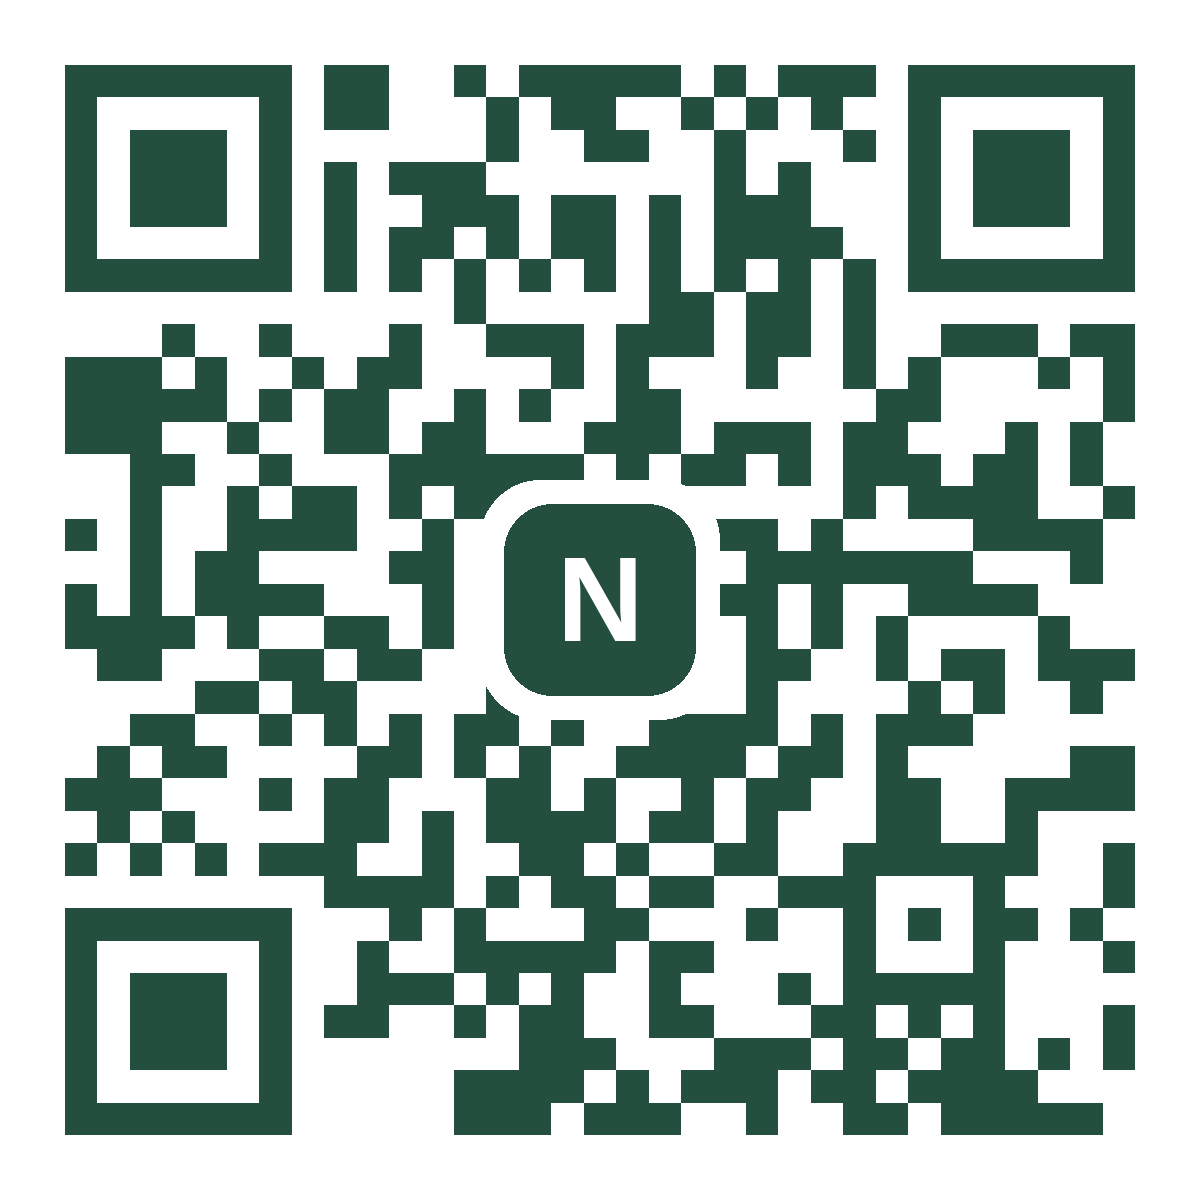
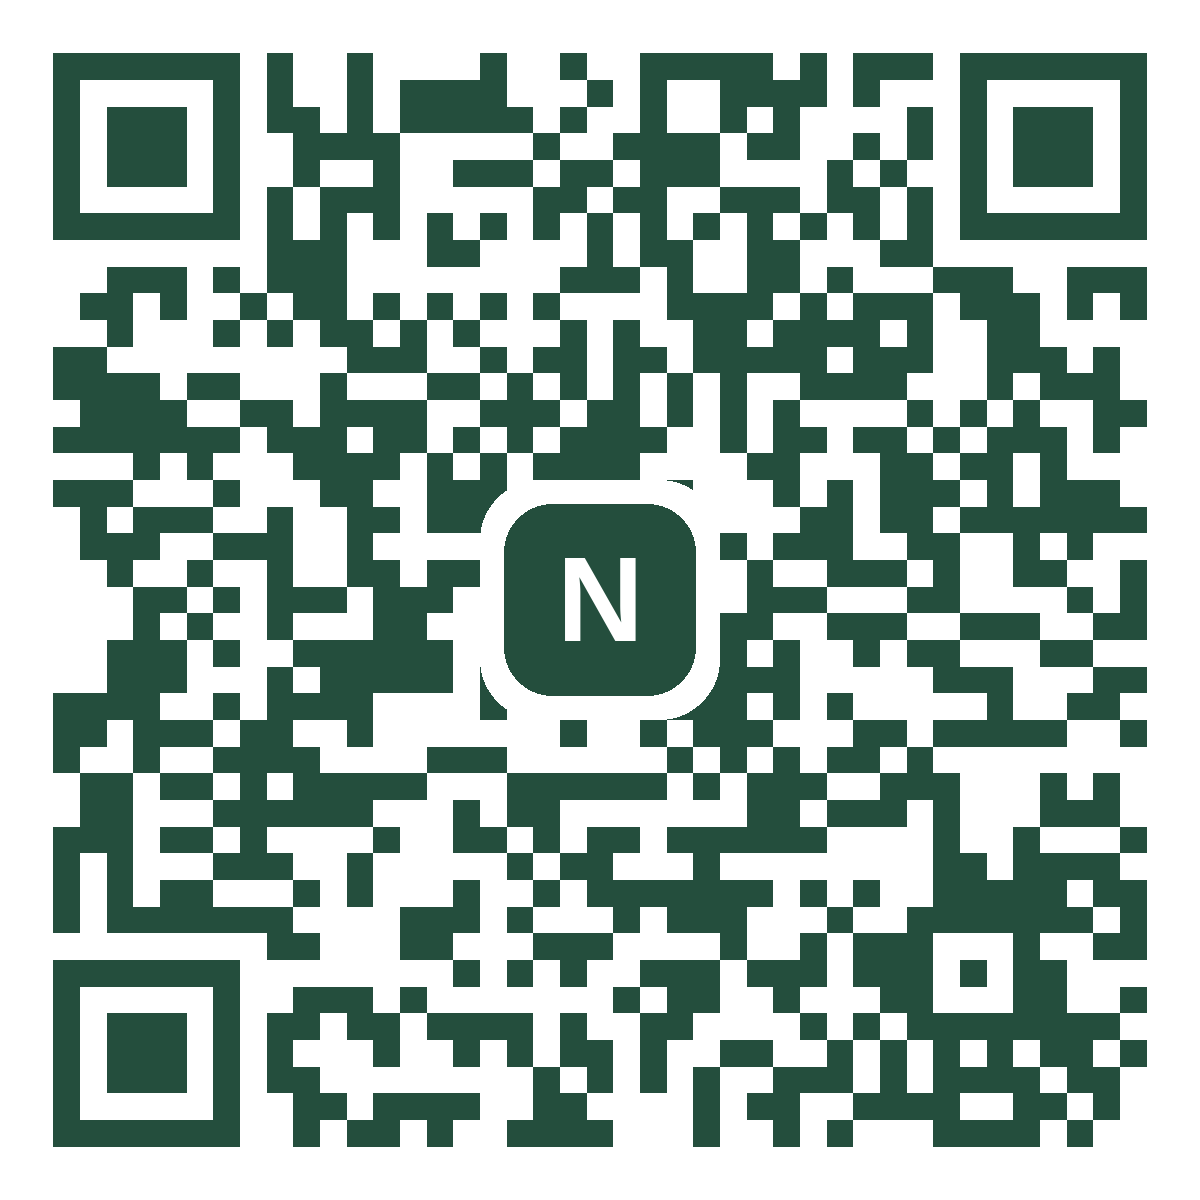
ci: deploy frontend to Azure Static Web Apps and backend to App Service
- SWA workflow: build from frontend/ as hybrid Next.js (was repo root),
  NEXT_PUBLIC_* at build time, path filters, manual dispatch
- Next.js standalone output (+ copy of static/public) to stay under the SWA
  hybrid size limit; Node 22 pinned via engines; proxy skips /.swa health path
- Backend workflow: pytest, package app + requirements, deploy with publish
  profile, then poll /api/health; gunicorn added for the App Service startup command
- Docs rewritten for Azure (secrets, app settings, startup command, CORS
  incl. PR previews, Supabase/Google URLs, troubleshooting); render.yaml removed
- QR codes and posters regenerated for the Azure URL

diff --git a/frontend/src/proxy.ts b/frontend/src/proxy.ts
@@ -14,7 +14,8 @@ export const config = {
      * - favicon.ico, sitemap.xml, robots.txt (metadata files)
      * - icons/ and screenshots/ (PWA assets)
      * - api/ routes (handled separately)
+     * - .swa/ (Azure Static Web Apps health check)
      */
-    "/((?!_next/static|_next/image|favicon.ico|sitemap.xml|robots.txt|icons/|screenshots/|manifest.json|sw.js|offline.html).*)",
+    "/((?!\\.swa|_next/static|_next/image|favicon.ico|sitemap.xml|robots.txt|icons/|screenshots/|manifest.json|sw.js|offline.html).*)",
   ],
 };

diff --git a/frontend/next.config.ts b/frontend/next.config.ts
@@ -1,6 +1,9 @@
 import type { NextConfig } from "next";
 
 const nextConfig: NextConfig = {
+  // Self-contained server bundle: keeps the Azure Static Web Apps hybrid
+  // deployment under its 250 MB limit
+  output: "standalone",
   async headers() {
     return [
       {

diff --git a/scripts/generate_qr.py b/scripts/generate_qr.py
@@ -2,14 +2,14 @@
 
 Usage (from the repo root):
     pip install -r scripts/requirements.txt
-    python scripts/generate_qr.py --url https://nutrimess.vercel.app
+    python scripts/generate_qr.py --url https://kind-coast-021723100.1.azurestaticapps.net
 
 Writes to qr/:
     nutrimess-qr.png / .svg       app QR (opens the app; login or dashboard)
     nutrimess-poster.png          general A5 poster
     posters/nutrimess-<CODE>.png  one poster per bhawan, linking to
                                   /register?bhawan=<CODE> so it's preselected
-Rerun with your real URL if the Vercel deployment name differs.
+Rerun with --url if the app moves (e.g. to a custom domain).
 """
 
 import argparse
@@ -110,7 +110,7 @@ def poster(url: str, subtitle: str, out: Path) -> None:
 
 def main() -> None:
     parser = argparse.ArgumentParser(description=__doc__, formatter_class=argparse.RawDescriptionHelpFormatter)
-    parser.add_argument("--url", default="https://nutrimess.vercel.app", help="Deployed app URL")
+    parser.add_argument("--url", default="https://kind-coast-021723100.1.azurestaticapps.net", help="Deployed app URL")
     parser.add_argument("--out", default="qr", help="Output directory")
     args = parser.parse_args()
 

diff --git a/backend/app/config.py b/backend/app/config.py
@@ -14,8 +14,8 @@ class Settings(BaseSettings):
     gemini_api_key: str = ""
     gemini_model: str = "gemini-2.5-flash"
 
-    # CORS: comma-separated origins, plus an optional regex for Vercel
-    # preview deployments (e.g. https://nutrimess-.*\.vercel\.app)
+    # CORS: comma-separated origins, plus an optional regex for preview
+    # deployments (Azure Static Web Apps PR environments)
     cors_origins: str = "http://localhost:3000"
     cors_origin_regex: str | None = None
 

diff --git a/docs/deployment.md b/docs/deployment.md
@@ -1,94 +1,143 @@
-# Deployment
+# Deployment (Azure)
 
-Target: frontend on **Vercel** (`https://nutrimess.vercel.app`), backend on
-**Render** (free tier, Singapore), database on **Supabase**. Total cost: free.
+| Part | Service | URL |
+|------|---------|-----|
+| Frontend | Azure Static Web Apps "NutriMess" (hybrid Next.js) | https://kind-coast-021723100.1.azurestaticapps.net |
+| Backend | Azure App Service "NutriMess-backend" (Linux, Python) | https://nutrimess-backend-fbb3fwemg4evckah.eastasia-01.azurewebsites.net |
+| Database/Auth | Supabase project `zvepctjxrvdtoyatpzqh` | |
 
-Deploy in this order: backend → frontend → Supabase auth URLs → QR codes.
+## How deploys work
 
-## 1. Backend on Render
+Pushing to `main` triggers GitHub Actions; each workflow only runs when its
+part of the repo changed:
 
-1. Render dashboard → **New → Blueprint** → select the GitHub repo. Render
-   reads `render.yaml` and creates `nutrimess-api` (Docker, `backend/`).
-2. Enter the secret env vars when prompted:
-   - `SUPABASE_ANON_KEY`: Supabase → Project Settings → API → anon key
-   - `GEMINI_API_KEY`
-3. Wait for the deploy, then open `https://<service>.onrender.com/api/health`.
-   It should return `{"status":"healthy",...}`.
+| Workflow | Runs when | Does |
+|----------|-----------|------|
+| `ci.yml` | every push / PR | lint, type-check, unit tests, build; backend pytest |
+| `azure-static-web-apps-kind-coast-021723100.yml` | `frontend/**` changes | Azure's Oryx builds `frontend/` (`npm run build` → standalone Next.js) and deploys it. PRs get a temporary preview URL, removed when the PR closes |
+| `azure-backend.yml` | `backend/**` changes | runs pytest, zips `backend/app` + `requirements.txt`, deploys with the publish profile, then polls `/api/health` |
 
-Free-tier services sleep after 15 minutes idle; the first request after that
-takes ~30–60 s. The app handles it (the dashboard suggestion card simply
-appears late). Upgrade the instance, or ping `/api/health` on a schedule,
-before a demo.
+Both deploy workflows can also be run by hand: GitHub → Actions → pick the
+workflow → **Run workflow**.
 
-If your Vercel URL ends up different from `nutrimess.vercel.app`, update
-`CORS_ORIGINS` (and `CORS_ORIGIN_REGEX`) in Render.
+## One-time setup
 
-## 2. Frontend on Vercel
+### GitHub repository secrets
+(Settings → Secrets and variables → Actions)
 
-1. Vercel → **Add New → Project** → import the GitHub repo.
-2. **Project name:** `nutrimess` (this gives `nutrimess.vercel.app`; if it is
-   taken, note the URL you get; see step 5).
-3. **Root Directory:** `frontend`. Framework preset: Next.js (auto).
-4. Environment variables (Production and Preview):
+| Secret | Value |
+|--------|-------|
+| `AZURE_STATIC_WEB_APPS_API_TOKEN_KIND_COAST_021723100` | created by Azure already |
+| `AZURE_BACKEND_PUBLISH_PROFILE` | contents of the backend's downloaded publish profile |
+| `NEXT_PUBLIC_SUPABASE_ANON_KEY` | Supabase → Project Settings → API → anon key |
 
-   | Name | Value |
-   |------|-------|
-   | `NEXT_PUBLIC_SUPABASE_URL` | `https://zvepctjxrvdtoyatpzqh.supabase.co` |
-   | `NEXT_PUBLIC_SUPABASE_ANON_KEY` | anon key |
-   | `NEXT_PUBLIC_API_URL` | your Render URL, e.g. `https://nutrimess-api.onrender.com` |
+If a publish profile is ever shared (chat, screenshot), reset it in the
+portal (App Service → Overview → **Reset publish profile**), download the
+new one and update the secret.
 
-5. Deploy. Pushes to `main` redeploy automatically.
+### Backend App Service (portal → NutriMess-backend)
 
-## 3. Supabase configuration
+**Settings → Configuration → General settings**
+
+- Stack: **Python 3.12**
+- Startup command:
+  ```
+  gunicorn --worker-class uvicorn.workers.UvicornWorker --workers 1 --timeout 120 --bind 0.0.0.0:8000 app.main:app
+  ```
+  (one async worker handles many concurrent requests and keeps the
+  in-memory AI quota exact; `--timeout 120` leaves room for Gemini calls)
+- SCM Basic Auth Publishing Credentials: **On** (needed for publish-profile deploys)
+
+**Settings → Environment variables (App settings)**
+
+| Name | Value |
+|------|-------|
+| `SCM_DO_BUILD_DURING_DEPLOYMENT` | `true` (installs requirements.txt on deploy) |
+| `SUPABASE_URL` | `https://zvepctjxrvdtoyatpzqh.supabase.co` |
+| `SUPABASE_ANON_KEY` | anon key |
+| `GEMINI_API_KEY` | your Gemini key |
+| `GEMINI_MODEL` | `gemini-2.5-flash` |
+| `CORS_ORIGINS` | `https://kind-coast-021723100.1.azurestaticapps.net,http://localhost:3000` |
+| `CORS_ORIGIN_REGEX` | `https://kind-coast-021723100-\d+\.[a-z0-9]+\.1\.azurestaticapps\.net` (PR previews) |
+
+**Monitoring → Health check**: path `/api/health`.
+
+### Frontend Static Web App (portal → NutriMess)
+
+**Settings → Environment variables** (used at request time for server
+rendering; the workflow supplies the same values at build time):
+
+| Name | Value |
+|------|-------|
+| `NEXT_PUBLIC_SUPABASE_URL` | `https://zvepctjxrvdtoyatpzqh.supabase.co` |
+| `NEXT_PUBLIC_SUPABASE_ANON_KEY` | anon key |
+| `NEXT_PUBLIC_API_URL` | `https://nutrimess-backend-fbb3fwemg4evckah.eastasia-01.azurewebsites.net` |
+
+Plan: hybrid Next.js works on the **Free** plan too; Standard is only needed
+for custom auth, linked backends or the SLA. Switching to Free (Hosting
+plan) saves Azure for Students credit.
+
+Hybrid Next.js on Static Web Apps is a **preview** feature. If a deploy
+builds but pages fail at runtime, check the workflow log and the SWA
+**Environments** blade; the fallback is hosting the frontend on a second
+App Service (Node 22) using the same standalone build (`node server.js`).
+
+### Supabase
 
 Authentication → URL Configuration:
 
-- Site URL: `https://nutrimess.vercel.app`
-- Redirect URLs: add `https://nutrimess.vercel.app/**` and
-  `https://nutrimess-*.vercel.app/**` (keep the localhost entry for dev)
+- Site URL: `https://kind-coast-021723100.1.azurestaticapps.net`
+- Redirect URLs: `https://kind-coast-021723100.1.azurestaticapps.net/**`,
+  `https://kind-coast-021723100-*.azurestaticapps.net/**` (PR previews),
+  `http://localhost:3000/**`
 
-Authentication → Providers → Email: enable **Confirm email** for production
-and configure **custom SMTP** (e.g. Resend, Brevo; both have free tiers).
-The built-in mailer's hourly limit is far too low for a campus launch.
-
-Authentication → Attack Protection: enable **leaked password protection**.
+Authentication → Providers → Email: enable **Confirm email** and set up
+**custom SMTP** (Resend/Brevo free tiers); the built-in mailer only sends a
+few emails per hour. Attack Protection: enable **leaked password protection**.
 
 ### Google sign-in
 
-1. Google Cloud Console → APIs & Services → Credentials → **Create OAuth
-   client ID** → type **Web application**.
-2. Authorized JavaScript origins: `https://nutrimess.vercel.app`,
-   `http://localhost:3000`.
-3. Authorized redirect URI:
-   `https://zvepctjxrvdtoyatpzqh.supabase.co/auth/v1/callback`
-4. Copy the client secret **immediately** (Google only shows it once).
-5. Supabase → Providers → Google: put the web client ID in **Client IDs**
-   (first if there are several) and the secret in **Client Secret (for OAuth)**.
+Google Cloud Console → Credentials → your **Web application** OAuth client:
 
-`invalid_client` / "Unable to exchange external code" in the logs means the
-secret doesn't belong to that client ID; generate a new secret and re-paste.
+- Authorized JavaScript origins: `https://kind-coast-021723100.1.azurestaticapps.net`,
+  `http://localhost:3000`
+- Authorized redirect URI: `https://zvepctjxrvdtoyatpzqh.supabase.co/auth/v1/callback`
 
-## 4. QR codes
+Supabase → Providers → Google: the web client ID in **Client IDs** (first),
+its secret in **Client Secret (for OAuth)**. `invalid_client` in the auth
+logs means the secret doesn't match that client ID; add a new secret in
+Google (it's shown only once) and re-paste.
+
+## QR codes
+
+`qr/` targets the Azure URL. If the app moves (e.g. a custom domain):
 
 ```bash
 pip install -r scripts/requirements.txt
-python scripts/generate_qr.py --url https://nutrimess.vercel.app
+python scripts/generate_qr.py --url https://your-domain
 ```
 
-Outputs go to `qr/`. The committed files already target
-`https://nutrimess.vercel.app`; rerun with the real URL if it differs.
+## Post-deploy checklist
 
-## 5. Post-deploy checklist
-
-- [ ] `/api/health` on Render returns healthy
-- [ ] Open the Vercel URL on a phone → login page loads
-- [ ] Register with email → confirmation email arrives → sign in → dashboard
+- [ ] Backend workflow ends with "Backend healthy"
+- [ ] Frontend workflow succeeds; the Azure URL shows the NutriMess login page
+- [ ] Register with email → confirmation email → sign in → dashboard
 - [ ] Google sign-in → "Choose your Bhawan" → dashboard
-- [ ] Secretary: upload a menu photo → AI extracts → publish → student sees it
-- [ ] Scan a plate → items detected → log → appears in My Nutrition
-- [ ] AI assistant answers with dishes from the published menu
-- [ ] Two phones in one bhawan see each other's chat messages live
-- [ ] Android Chrome shows "Install NutriMess"; iOS Safari Share → Add to Home Screen
-- [ ] Scan a bhawan poster QR → register page with that bhawan preselected
-- [ ] Run `database/tests/rls_audit.sql` → `RLS audit passed`
-- [ ] Supabase advisors (Security) show no new findings
+- [ ] Secretary: upload menu photo → AI extracts → publish → student sees it
+- [ ] Scan a plate → foods detected → log → appears in My Nutrition
+- [ ] AI assistant answers using dishes from the published menu
+- [ ] Two phones in one bhawan see each other's chat live
+- [ ] Android Chrome offers "Install NutriMess"; iOS Safari → Add to Home Screen
+- [ ] A bhawan poster QR opens /register with that bhawan selected
+- [ ] `database/tests/rls_audit.sql` → `RLS audit passed`
+
+## Troubleshooting
+
+| Symptom | Check |
+|---------|-------|
+| Azure placeholder page / 404 on `/login` | Frontend workflow failed or `app_location` isn't `frontend` |
+| Pages load but sign-in or data fails | `NEXT_PUBLIC_*` missing at build time (workflow `env`) or in SWA env vars |
+| "Could not reach the NutriMess server" | Backend down: App Service → Log stream; check startup command and app settings |
+| Browser console CORS error | `CORS_ORIGINS` on the backend doesn't include the exact frontend origin |
+| AI features return 503 | `GEMINI_API_KEY` missing in App Service settings |
+| Backend deploy 401 | Publish profile reset or SCM basic auth disabled; update the secret |

diff --git a/README.md b/README.md
@@ -3,7 +3,7 @@
 Mess menu, community chat and personalised nutrition for IIT Roorkee's
 hostels (Bhawans). Installable as a phone app (PWA).
 
-**Production URL:** https://nutrimess.vercel.app (see [docs/deployment.md](docs/deployment.md)) · **QR codes:** [`qr/`](qr/)
+**Live:** https://kind-coast-021723100.1.azurestaticapps.net (Azure; see [docs/deployment.md](docs/deployment.md)) · **QR codes:** [`qr/`](qr/)
 
 ## What it does
 
@@ -21,8 +21,8 @@ Everything is scoped to the user's bhawan by Postgres Row Level Security.
 ## Architecture
 
 ```
-frontend/   Next.js 16 PWA (App Router, TypeScript, Tailwind v4)  -> Vercel
-backend/    FastAPI + Google Gemini (menu OCR, plate analysis, AI chat) -> Render
+frontend/   Next.js 16 PWA (App Router, TypeScript, Tailwind v4)  -> Azure Static Web Apps
+backend/    FastAPI + Google Gemini (menu OCR, plate analysis, AI chat) -> Azure App Service
 database/   Supabase Postgres schema, RLS, migrations, RLS audit  -> Supabase
 scripts/    QR code / poster generator
 qr/         Generated QR codes and printable posters
@@ -61,7 +61,8 @@ cd backend && python -m pytest
 ```
 
 CI runs the frontend and backend checks on every push
-([.github/workflows/ci.yml](.github/workflows/ci.yml)). Manual test plan:
+([.github/workflows/ci.yml](.github/workflows/ci.yml)); pushes to `main` deploy
+the changed part to Azure automatically. Manual test plan:
 [docs/testing.md](docs/testing.md).
 
 ## Team

diff --git a/docs/setup.md b/docs/setup.md
@@ -31,9 +31,10 @@ Verify access control with `database/tests/rls_audit.sql`; it should end with
 
 Authentication → URL Configuration:
 
-- **Site URL:** `http://localhost:3000` (production: `https://nutrimess.vercel.app`)
-- **Redirect URLs:** `http://localhost:3000/**`, `https://nutrimess.vercel.app/**`,
-  `https://nutrimess-*.vercel.app/**` (preview deployments)
+- **Site URL:** `http://localhost:3000` (production: `https://kind-coast-021723100.1.azurestaticapps.net`)
+- **Redirect URLs:** `http://localhost:3000/**`,
+  `https://kind-coast-021723100.1.azurestaticapps.net/**`,
+  `https://kind-coast-021723100-*.azurestaticapps.net/**` (PR previews)
 
 Authentication → Providers → Email: while developing, turn off **Confirm
 email** or configure custom SMTP. Supabase's built-in mailer only sends a

diff --git a/docs/architecture.md b/docs/architecture.md
@@ -1,9 +1,9 @@
 # Architecture & key decisions
 
 ```
-Phone (PWA) ──► Next.js on Vercel ──► Supabase (Postgres + Auth + Storage + Realtime)
+Phone (PWA) ──► Next.js on Azure Static Web Apps ──► Supabase (Postgres + Auth + Storage + Realtime)
                      │                        ▲
-                     └──► FastAPI on Render ──┘ (with the user's JWT)
+                     └──► FastAPI on Azure App Service ──┘ (with the user's JWT)
                                 │
                                 └──► Google Gemini
 ```

diff --git a/AGENTS.md b/AGENTS.md
@@ -16,7 +16,7 @@ database/          Supabase PostgreSQL (schema, seeds, RLS policies, functions)
 - **Database:** Supabase PostgreSQL + Auth + Storage + Realtime
 - **AI/ML:** Google Gemini API (multimodal, free tier)
 - **Nutrition:** IFCT 2017 (seeded) + USDA FoodData Central (fallback)
-- **Deploy:** Vercel (frontend), Render (backend), Supabase Cloud (DB)
+- **Deploy:** Azure Static Web Apps (frontend), Azure App Service (backend), Supabase Cloud (DB); see docs/deployment.md
 
 ## Design System — "Forestry & Terracotta Modern"
 Strict adherence required. No emojis in UI chrome.
